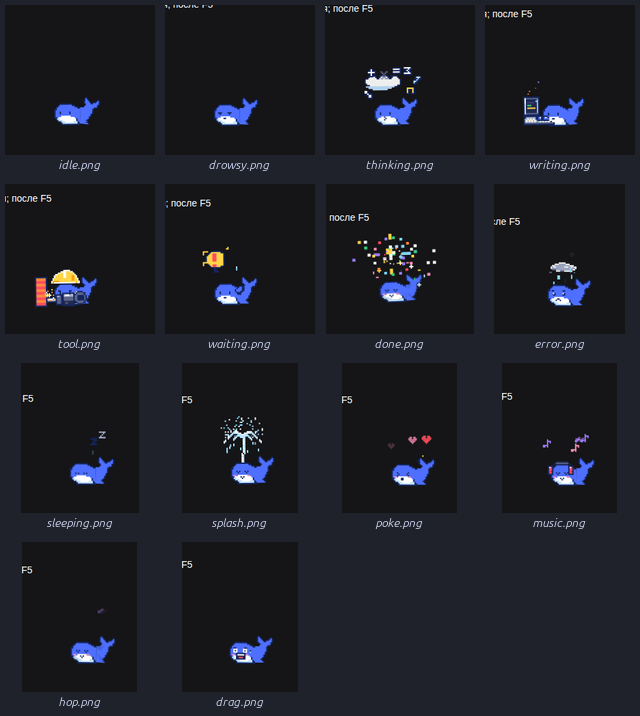
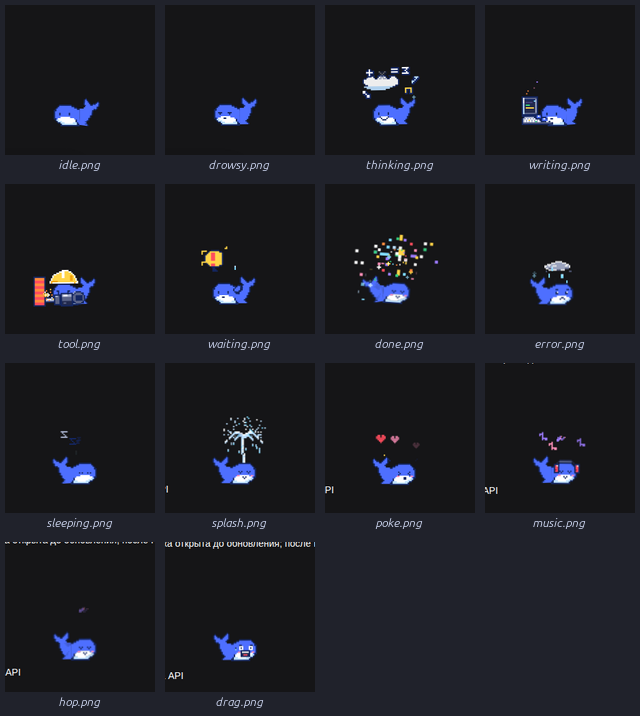
thinking: cat-like w smile from the user's reference

diff --git a/client.js b/client.js
@@ -594,7 +594,7 @@ const ART = {
     <g id="dw-face-drowsy" class="dw-alt dw-on-drowsy"><rect x="22" y="68" width="6" height="2" fill="#142660"/><rect x="36" y="68" width="6" height="2" fill="#142660"/><rect x="24" y="70" width="2" height="2" fill="#142660"/><rect x="38" y="70" width="2" height="2" fill="#142660"/></g>
     <g id="dw-face-drag" class="dw-alt dw-on-drag"><rect x="22" y="64" width="4" height="2" fill="#142660"/><rect x="38" y="64" width="4" height="2" fill="#142660"/><rect x="22" y="66" width="6" height="6" fill="#FFFFFF"/><rect x="24" y="68" width="2" height="2" fill="#142660"/><rect x="36" y="66" width="6" height="6" fill="#FFFFFF"/><rect x="38" y="68" width="2" height="2" fill="#142660"/><rect x="46" y="68" width="2" height="4" fill="#7FDBFF"/><rect x="46" y="68" width="2" height="2" fill="#142660"/></g>
     <g id="dw-blush" class="dw-alt dw-on-done dw-on-music dw-on-splash dw-on-poke dw-on-hop dw-on-drag"><rect x="20" y="74" width="4" height="2" fill="#FF8FB8"/><rect x="40" y="74" width="4" height="2" fill="#FF8FB8"/></g>
-    <g id="dw-mouth-smile"><rect x="30" y="76" width="4" height="2" fill="#142660"/></g><g id="dw-mouth-drag-closed" class="dw-alt dw-on-drag"><rect x="28" y="76" width="10" height="2" fill="#142660"/></g><g id="dw-mouth-drag-open" class="dw-alt dw-on-drag"><rect x="26" y="72" width="14" height="10" fill="#142660"/><rect x="28" y="74" width="10" height="6" fill="#222A4E"/><rect x="28" y="74" width="10" height="2" fill="#FFFFFF"/><rect x="30" y="78" width="6" height="2" fill="#FF4D5E"/></g><g id="dw-mouth-think-closed" class="dw-alt dw-on-thinking"><rect x="30" y="74" width="2" height="2" fill="#142660"/><rect x="32" y="76" width="2" height="2" fill="#142660"/><rect x="30" y="78" width="2" height="2" fill="#142660"/></g><g id="dw-mouth-think-open" class="dw-alt dw-on-thinking"><rect x="30" y="74" width="6" height="4" fill="#142660"/><rect x="32" y="76" width="2" height="2" fill="#FF8FB8"/></g>
+    <g id="dw-mouth-smile"><rect x="30" y="76" width="4" height="2" fill="#142660"/></g><g id="dw-mouth-drag-closed" class="dw-alt dw-on-drag"><rect x="28" y="76" width="10" height="2" fill="#142660"/></g><g id="dw-mouth-drag-open" class="dw-alt dw-on-drag"><rect x="26" y="72" width="14" height="10" fill="#142660"/><rect x="28" y="74" width="10" height="6" fill="#222A4E"/><rect x="28" y="74" width="10" height="2" fill="#FFFFFF"/><rect x="30" y="78" width="6" height="2" fill="#FF4D5E"/></g><g id="dw-mouth-think-closed" class="dw-alt dw-on-thinking"><rect x="26" y="74" width="2" height="2" fill="#142660"/><rect x="28" y="76" width="2" height="2" fill="#142660"/><rect x="30" y="78" width="2" height="2" fill="#142660"/><rect x="32" y="78" width="2" height="2" fill="#142660"/><rect x="34" y="78" width="2" height="2" fill="#142660"/><rect x="36" y="76" width="2" height="2" fill="#142660"/><rect x="38" y="74" width="2" height="2" fill="#142660"/></g><g id="dw-mouth-think-open" class="dw-alt dw-on-thinking"><rect x="30" y="74" width="6" height="4" fill="#142660"/><rect x="32" y="76" width="2" height="2" fill="#FF8FB8"/></g>
     <g id="dw-mouth-happy" class="dw-alt dw-on-done dw-on-music dw-on-splash dw-on-hop"><rect x="30" y="76" width="2" height="2" fill="#142660"/><rect x="32" y="78" width="2" height="2" fill="#142660"/><rect x="34" y="76" width="2" height="2" fill="#142660"/></g>
     <g id="dw-mouth-frown" class="dw-alt dw-on-error"><rect x="28" y="78" width="2" height="2" fill="#142660"/><rect x="30" y="76" width="4" height="2" fill="#142660"/><rect x="34" y="78" width="2" height="2" fill="#142660"/></g>
     <g id="dw-mouth-o" class="dw-alt dw-on-poke"><rect x="30" y="76" width="4" height="4" fill="#142660"/></g>

diff --git a/src/art.js b/src/art.js
@@ -584,7 +584,7 @@ const ART = {
     <g id="dw-face-drowsy" class="dw-alt dw-on-drowsy"><rect x="22" y="68" width="6" height="2" fill="#142660"/><rect x="36" y="68" width="6" height="2" fill="#142660"/><rect x="24" y="70" width="2" height="2" fill="#142660"/><rect x="38" y="70" width="2" height="2" fill="#142660"/></g>
     <g id="dw-face-drag" class="dw-alt dw-on-drag"><rect x="22" y="64" width="4" height="2" fill="#142660"/><rect x="38" y="64" width="4" height="2" fill="#142660"/><rect x="22" y="66" width="6" height="6" fill="#FFFFFF"/><rect x="24" y="68" width="2" height="2" fill="#142660"/><rect x="36" y="66" width="6" height="6" fill="#FFFFFF"/><rect x="38" y="68" width="2" height="2" fill="#142660"/><rect x="46" y="68" width="2" height="4" fill="#7FDBFF"/><rect x="46" y="68" width="2" height="2" fill="#142660"/></g>
     <g id="dw-blush" class="dw-alt dw-on-done dw-on-music dw-on-splash dw-on-poke dw-on-hop dw-on-drag"><rect x="20" y="74" width="4" height="2" fill="#FF8FB8"/><rect x="40" y="74" width="4" height="2" fill="#FF8FB8"/></g>
-    <g id="dw-mouth-smile"><rect x="30" y="76" width="4" height="2" fill="#142660"/></g><g id="dw-mouth-drag-closed" class="dw-alt dw-on-drag"><rect x="28" y="76" width="10" height="2" fill="#142660"/></g><g id="dw-mouth-drag-open" class="dw-alt dw-on-drag"><rect x="26" y="72" width="14" height="10" fill="#142660"/><rect x="28" y="74" width="10" height="6" fill="#222A4E"/><rect x="28" y="74" width="10" height="2" fill="#FFFFFF"/><rect x="30" y="78" width="6" height="2" fill="#FF4D5E"/></g><g id="dw-mouth-think-closed" class="dw-alt dw-on-thinking"><rect x="30" y="74" width="2" height="2" fill="#142660"/><rect x="32" y="76" width="2" height="2" fill="#142660"/><rect x="30" y="78" width="2" height="2" fill="#142660"/></g><g id="dw-mouth-think-open" class="dw-alt dw-on-thinking"><rect x="30" y="74" width="6" height="4" fill="#142660"/><rect x="32" y="76" width="2" height="2" fill="#FF8FB8"/></g>
+    <g id="dw-mouth-smile"><rect x="30" y="76" width="4" height="2" fill="#142660"/></g><g id="dw-mouth-drag-closed" class="dw-alt dw-on-drag"><rect x="28" y="76" width="10" height="2" fill="#142660"/></g><g id="dw-mouth-drag-open" class="dw-alt dw-on-drag"><rect x="26" y="72" width="14" height="10" fill="#142660"/><rect x="28" y="74" width="10" height="6" fill="#222A4E"/><rect x="28" y="74" width="10" height="2" fill="#FFFFFF"/><rect x="30" y="78" width="6" height="2" fill="#FF4D5E"/></g><g id="dw-mouth-think-closed" class="dw-alt dw-on-thinking"><rect x="26" y="74" width="2" height="2" fill="#142660"/><rect x="28" y="76" width="2" height="2" fill="#142660"/><rect x="30" y="78" width="2" height="2" fill="#142660"/><rect x="32" y="78" width="2" height="2" fill="#142660"/><rect x="34" y="78" width="2" height="2" fill="#142660"/><rect x="36" y="76" width="2" height="2" fill="#142660"/><rect x="38" y="74" width="2" height="2" fill="#142660"/></g><g id="dw-mouth-think-open" class="dw-alt dw-on-thinking"><rect x="30" y="74" width="6" height="4" fill="#142660"/><rect x="32" y="76" width="2" height="2" fill="#FF8FB8"/></g>
     <g id="dw-mouth-happy" class="dw-alt dw-on-done dw-on-music dw-on-splash dw-on-hop"><rect x="30" y="76" width="2" height="2" fill="#142660"/><rect x="32" y="78" width="2" height="2" fill="#142660"/><rect x="34" y="76" width="2" height="2" fill="#142660"/></g>
     <g id="dw-mouth-frown" class="dw-alt dw-on-error"><rect x="28" y="78" width="2" height="2" fill="#142660"/><rect x="30" y="76" width="4" height="2" fill="#142660"/><rect x="34" y="78" width="2" height="2" fill="#142660"/></g>
     <g id="dw-mouth-o" class="dw-alt dw-on-poke"><rect x="30" y="76" width="4" height="4" fill="#142660"/></g>
